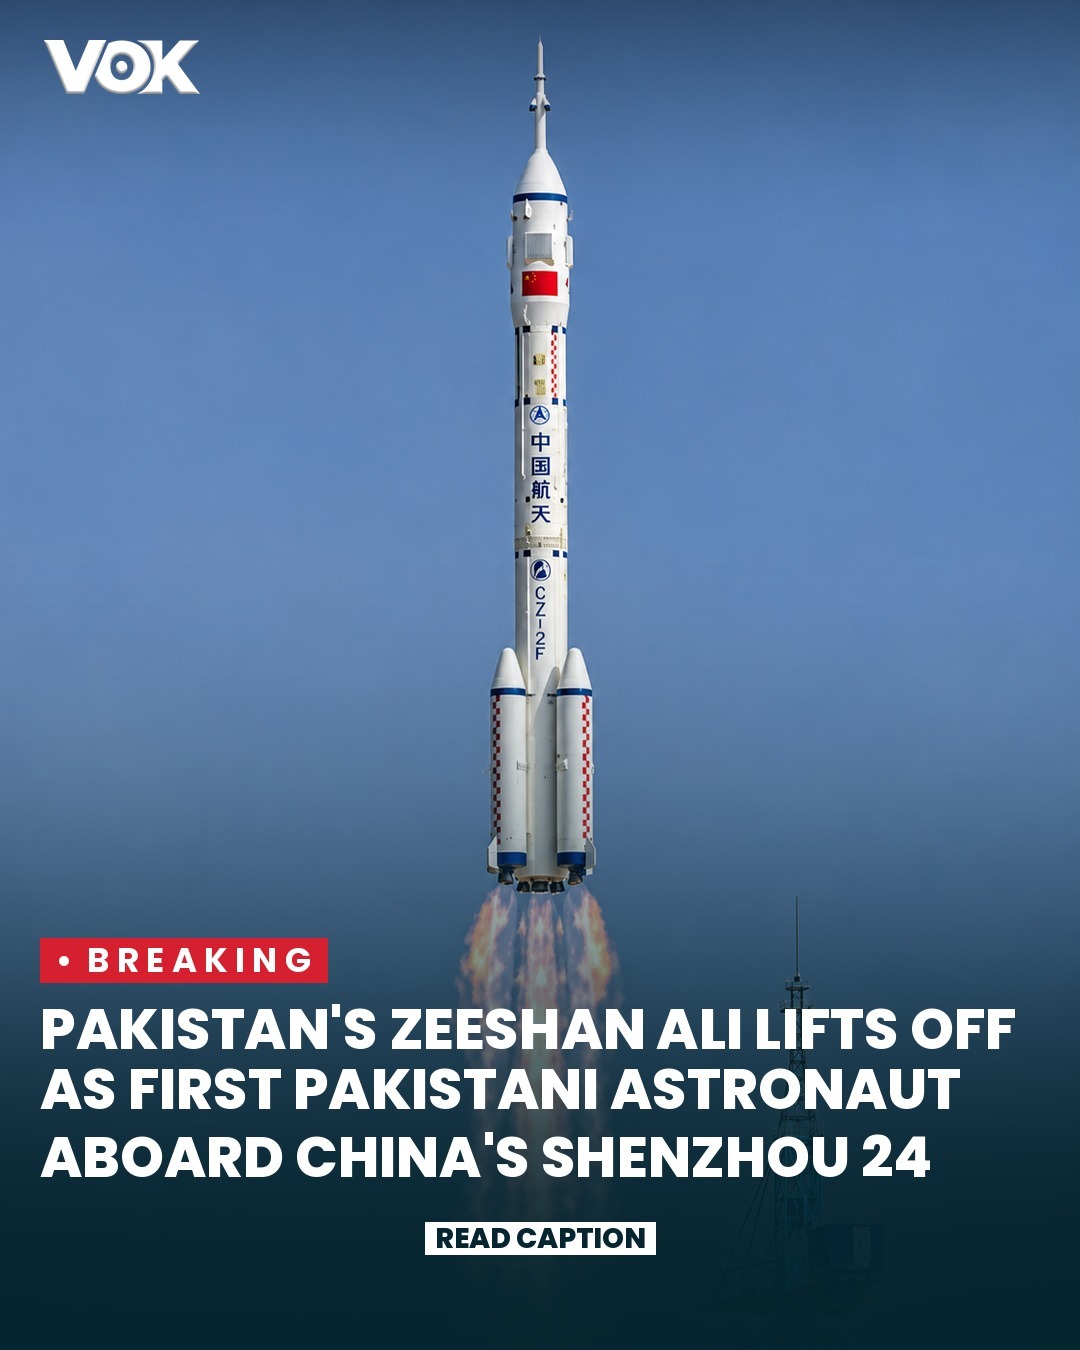
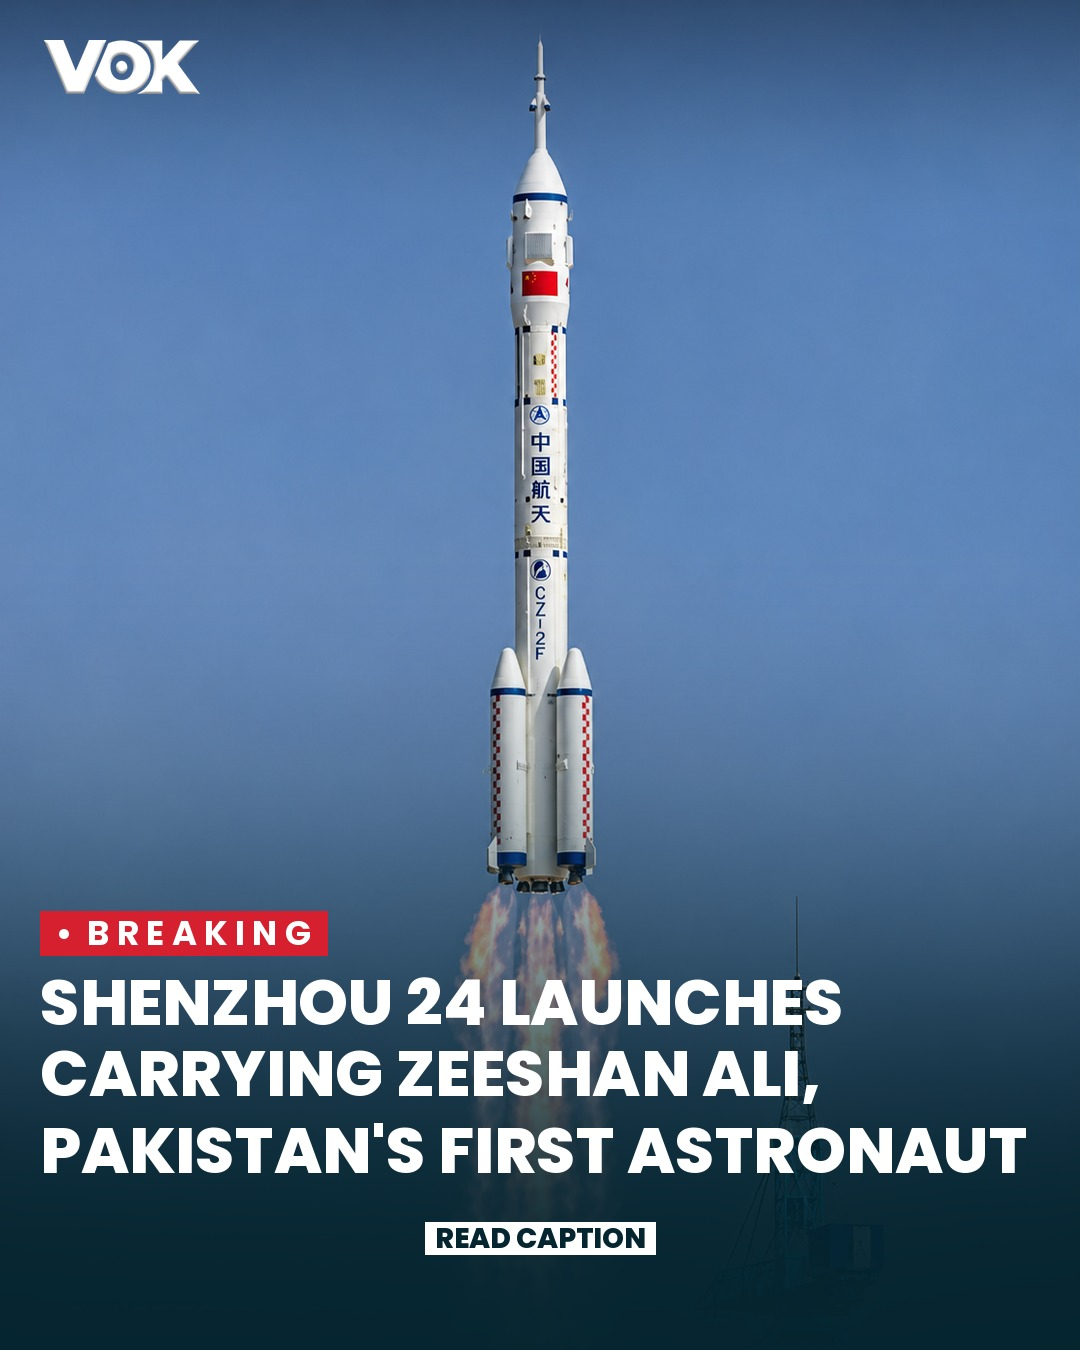
Launch headline leads with the launch; never split names across lines
Claude-Session: https://claude.ai/code/session_01QCrJEZeKbDG7a8nB2oQVuB

Changed region(s): [[0.0306, 0.6533, 0.9472, 0.8711]]

diff --git a/vok/render.py b/vok/render.py
@@ -167,6 +167,10 @@ def _balanced_lines(words: list[str], f: ImageFont.FreeTypeFont, max_w: int, n_l
 def fit_headline(text: str):
     """Pick font size (64 down to 50) and 2 to 4 lines so the block looks even.
     Bigger text wins unless a slightly smaller size gives clearly straighter lines."""
+    orig = text.split()
+    # never split a name ("Zeeshan | Ali"): pairs of capitalised words stay on one line
+    name_pairs = {i for i in range(len(orig) - 1)
+                  if orig[i][:1].isupper() and orig[i + 1][:1].isupper() and i > 0}
     words = text.upper().split()
     merged: list[str] = []
     for w in words:                     # never start a line with a dash
@@ -185,6 +189,11 @@ def fit_headline(text: str):
             lines, rag = r
             # cost: uneven lines + smaller text + extra lines
             cost = rag * 1.0 + (64 - size) * 0.012 + (n_lines - 1) * 0.02
+            pos = 0
+            for ln in lines[:-1]:
+                pos += len(ln.split())
+                if (pos - 1) in name_pairs and len(merged) == len(orig):
+                    cost += 0.5
             if n_lines == 1 and len(words) > 3:
                 cost += 0.3
             options.append((cost, size, lines))
